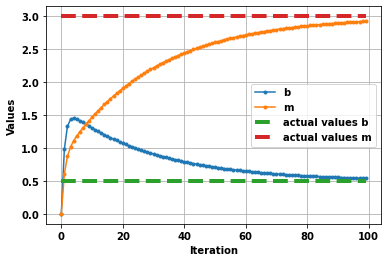
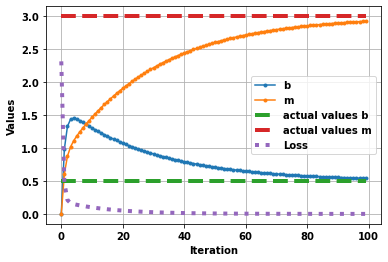
nnm again!

diff --git a/docs/posts/NeuralNetworksMaths.html b/docs/posts/NeuralNetworksMaths.html
@@ -212,7 +212,7 @@ code span.wa { color: #60a0b0; font-weight: bold; font-style: italic; } /* Warni
 <blockquote class="blockquote">
 <p>Gradient descent is not the only optimisation method to determine parameters but is an easy one to understand.</p>
 </blockquote>
-<div class="cell" data-execution_count="167">
+<div class="cell" data-execution_count="3">
 <div class="cell-output cell-output-display">
 <p><img src="NeuralNetworksMaths_files/figure-html/cell-3-output-1.png" class="img-fluid"></p>
 </div>
@@ -248,7 +248,7 @@ code span.wa { color: #60a0b0; font-weight: bold; font-style: italic; } /* Warni
 <p>To allow for matrix multiplication we create <code>X</code> as a matrix of two vectors one with just ones and the 2nd part the original X. This then allows us to have one variable for the weights <code>m</code> and <code>b</code> that we are fitting to.</p>
 <p>So for each iteration (<code>K</code>) the weights <code>W</code> (<code>j</code> are the different parts to the weights e.g.&nbsp;<code>b</code> and <code>m</code>) are updated. Noting that there are <code>N</code> observations (length of y is N) we get:</p>
 <p><span class="math inline">\(W_j^{K+1} = W_j^{K} - [\alpha . \frac{1}{N}\sum(\hat{Y}-Y).X_j]\)</span></p>
-<div class="cell" data-execution_count="6">
+<div class="cell" data-execution_count="4">
 <div class="sourceCode cell-code" id="cb1"><pre class="sourceCode python code-with-copy"><code class="sourceCode python"><span id="cb1-1"><a href="#cb1-1" aria-hidden="true" tabindex="-1"></a><span class="kw">def</span> computeCost(X,y, theta):</span>
 <span id="cb1-2"><a href="#cb1-2" aria-hidden="true" tabindex="-1"></a>    Ypred <span class="op">=</span> np.matmul(X,theta)</span>
 <span id="cb1-3"><a href="#cb1-3" aria-hidden="true" tabindex="-1"></a>    J <span class="op">=</span>np.<span class="bu">sum</span>( (<span class="dv">1</span><span class="op">/</span>(<span class="dv">2</span><span class="op">*</span><span class="bu">len</span>(y)))<span class="op">*</span> (Ypred <span class="op">-</span> y)<span class="op">**</span><span class="dv">2</span> )</span>
@@ -260,7 +260,7 @@ code span.wa { color: #60a0b0; font-weight: bold; font-style: italic; } /* Warni
 <span id="cb1-9"><a href="#cb1-9" aria-hidden="true" tabindex="-1"></a>    </span></code><button title="Copy to Clipboard" class="code-copy-button"><i class="bi"></i></button></pre></div>
 </div>
 <p>Create the variables to fit to</p>
-<div class="cell" data-execution_count="7">
+<div class="cell" data-execution_count="5">
 <div class="sourceCode cell-code" id="cb2"><pre class="sourceCode python code-with-copy"><code class="sourceCode python"><span id="cb2-1"><a href="#cb2-1" aria-hidden="true" tabindex="-1"></a>X <span class="op">=</span> np.ones((<span class="dv">50</span>,<span class="dv">2</span>))</span>
 <span id="cb2-2"><a href="#cb2-2" aria-hidden="true" tabindex="-1"></a>X[:,<span class="dv">1</span>]<span class="op">=</span>np.arange(<span class="dv">0</span>,<span class="dv">1</span>,<span class="fl">.02</span>)</span>
 <span id="cb2-3"><a href="#cb2-3" aria-hidden="true" tabindex="-1"></a>theta_act <span class="op">=</span> [<span class="fl">.5</span>,<span class="dv">3</span>]</span>
@@ -277,7 +277,7 @@ code span.wa { color: #60a0b0; font-weight: bold; font-style: italic; } /* Warni
 </div>
 </div>
 <p>Use the gradient descent iteration</p>
-<div class="cell" data-execution_count="8">
+<div class="cell" data-execution_count="6">
 <div class="sourceCode cell-code" id="cb3"><pre class="sourceCode python code-with-copy"><code class="sourceCode python"><span id="cb3-1"><a href="#cb3-1" aria-hidden="true" tabindex="-1"></a>theta_<span class="op">=</span>np.array([<span class="dv">0</span>, <span class="dv">0</span>])</span>
 <span id="cb3-2"><a href="#cb3-2" aria-hidden="true" tabindex="-1"></a>thetaALL<span class="op">=</span>[]<span class="op">;</span> jALL<span class="op">=</span>[]</span>
 <span id="cb3-3"><a href="#cb3-3" aria-hidden="true" tabindex="-1"></a>iterTot<span class="op">=</span><span class="dv">100</span></span>
@@ -290,7 +290,7 @@ code span.wa { color: #60a0b0; font-weight: bold; font-style: italic; } /* Warni
 <span id="cb3-10"><a href="#cb3-10" aria-hidden="true" tabindex="-1"></a></span>
 <span id="cb3-11"><a href="#cb3-11" aria-hidden="true" tabindex="-1"></a>plt.plot(<span class="bu">range</span>(iterTot),thetaALL,<span class="st">'.-'</span>)</span>
 <span id="cb3-12"><a href="#cb3-12" aria-hidden="true" tabindex="-1"></a>plt.plot(<span class="bu">range</span>(iterTot),np.ones((iterTot,<span class="dv">2</span>))<span class="op">*</span>theta_act,<span class="st">'--'</span>,linewidth<span class="op">=</span><span class="dv">4</span>)</span>
-<span id="cb3-13"><a href="#cb3-13" aria-hidden="true" tabindex="-1"></a><span class="co"># plt.plot(range(iterTot),jALL,':',linewidth=4)</span></span>
+<span id="cb3-13"><a href="#cb3-13" aria-hidden="true" tabindex="-1"></a>plt.plot(<span class="bu">range</span>(iterTot),jALL,<span class="st">':'</span>,linewidth<span class="op">=</span><span class="dv">4</span>)</span>
 <span id="cb3-14"><a href="#cb3-14" aria-hidden="true" tabindex="-1"></a>plt.grid(<span class="va">True</span>)</span>
 <span id="cb3-15"><a href="#cb3-15" aria-hidden="true" tabindex="-1"></a>plt.legend([<span class="st">'b'</span>,<span class="st">'m'</span>,<span class="st">'actual values b'</span>,<span class="st">'actual values m'</span>,<span class="st">'Loss'</span>])</span>
 <span id="cb3-16"><a href="#cb3-16" aria-hidden="true" tabindex="-1"></a>plt.xlabel(<span class="st">'Iteration'</span>)</span>

diff --git a/docs/index.html b/docs/index.html
@@ -1388,7 +1388,7 @@ Tristan O’Malley
 </a>
 </div>
 </div>
-<div class="quarto-post image-right" data-index="54" data-categories="neural networks,maths" data-listing-date-sort="1665356400000" data-listing-file-modified-sort="1667594395992" data-listing-reading-time-sort="2.585">
+<div class="quarto-post image-right" data-index="54" data-categories="neural networks,maths" data-listing-date-sort="1665356400000" data-listing-file-modified-sort="1667594836360" data-listing-reading-time-sort="2.585">
 <div class="thumbnail">
 <a href="./posts/NeuralNetworksMaths.html">
 <div class="thumbnail-image">
